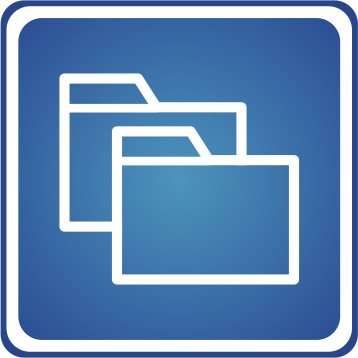
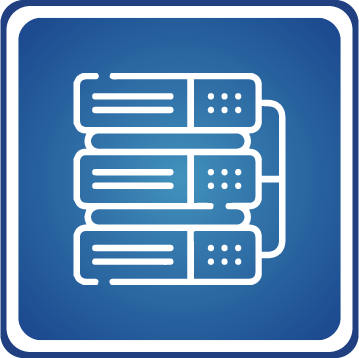
Atualização imagens dos blocos

diff --git a/courses-inicio.html b/courses-inicio.html
@@ -3,7 +3,7 @@
 
 <head>
     <meta charset="UTF-8">
-    <title>CURSOS (Menu) - UNISC</title>
+    <title>Tutoriais Moodle - UNISC</title>
     <link rel="stylesheet" href="reset.css">
     <link rel="stylesheet" href="style-inicio.css">
     <link rel="preconnect" href="https://fonts.googleapis.com">
@@ -17,7 +17,7 @@
             <table class="navegation">
                 <tr>
                     <td class="nav1">
-                        <button onclick="history.back()">Voltar</button>
+                        <button href="courses-inicio.html">Voltar</button>
                     </td>
                     <td class="nav2">
                         <a href="https://portalvirtual.unisc.br/moodle"><img class="bannerunisc" src="img_ead.png"></a>
@@ -34,7 +34,7 @@
             <ul class="recursos">
                 <li>
                     <h2>Arquivo</h2>
-                    <a href="courses-arquivo.html"><img class="atividade" src="img_NOTAS.png"></a>
+                    <a href="courses-arquivo.html"><img class="atividade" src="img_ARQUIVO.png"></a>
                     <!--Imagem Incorreta-->
                 </li>
                 <li>
@@ -43,56 +43,56 @@
                 </li>
                 <li>
                     <h2>Chat</h2>
-                    <a href="courses-chat.html"><img class="atividade" src="img_NOTAS.png"></a>
+                    <a href="courses-chat.html"><img class="atividade" src="img_CHAT.png"></a>
                     <!--Imagem Incorreta-->
                 </li>
                 <li>
                     <h2>Escolha</h2>
-                    <a href="courses-escolha.html"><img class="atividade" src="img_NOTAS.png"></a>
+                    <a href="courses-escolha.html"><img class="atividade" src="img_ESCOLHA.png"></a>
                     <!--Imagem Incorreta-->
                 </li>
                 <li>
                     <h2>Ferramenta Externa</h2>
-                    <a href="courses-ferramentaexterna.html"><img class="atividade" src="img_NOTAS.png"></a>
+                    <a href="courses-ferramentaexterna.html"><img class="atividade" src="img_FERRAMENTA.png"></a>
                     <!--Imagem Incorreta-->
                 </li>
                 <li>
                     <h2>Fórum</h2>
-                    <a href="courses-forum.html"><img class="atividade" src="img_FÓRUM.png"></a>
+                    <a href="courses-forum.html"><img class="atividade" src="img_FORUM.png"></a>
                 </li>
                 <li>
                     <h2>Glossário</h2>
-                    <a href="courses-glossario.html"><img class="atividade" src="img_NOTAS.png"></a>
+                    <a href="courses-glossario.html"><img class="atividade" src="img_GLOSSARIO.png"></a>
                     <!--Imagem Incorreta-->
                 </li>
                 <li>
                     <h2>H5P</h2>
-                    <a href="courses-h5p.html"><img class="atividade" src="img_NOTAS.png"></a>
+                    <a href="courses-h5p.html"><img class="atividade" src="img_H5P.png"></a>
                     <!--Imagem Incorreta-->
                 </li>
                 <li>
                     <h2>Lab. de Avaliação</h2>
-                    <a href="courses-labaval.html"><img class="atividade" src="img_NOTAS.png"></a>
+                    <a href="courses-labaval.html"><img class="atividade" src="img_LABAVAL.png"></a>
                     <!--Imagem Incorreta-->
                 </li>
                 <li>
                     <h2>Lição</h2>
-                    <a href="courses-licao.html"><img class="atividade" src="img_NOTAS.png"></a>
+                    <a href="courses-licao.html"><img class="atividade" src="img_LICAO.png"></a>
                     <!--Imagem Incorreta-->
                 </li>
                 <li>
                     <h2>Livro</h2>
-                    <a href="courses-livro.html"><img class="atividade" src="img_NOTAS.png"></a>
+                    <a href="courses-livro.html"><img class="atividade" src="img_LIVRO.png"></a>
                     <!--Imagem Incorreta-->
                 </li>
                 <li>
                     <h2>Página</h2>
-                    <a href="courses-pagina.html"><img class="atividade" src="img_NOTAS.png"></a>
+                    <a href="courses-pagina.html"><img class="atividade" src="img_PAGINA.png"></a>
                     <!--Imagem Incorreta-->
                 </li>
                 <li>
                     <h2>Pasta</h2>
-                    <a href="courses-pasta.html"><img class="atividade" src="img_NOTAS.png"></a>
+                    <a href="courses-pasta.html"><img class="atividade" src="img_PASTA.png"></a>
                     <!--Imagem Incorreta-->
                 </li>
                 <li>
@@ -106,22 +106,22 @@
                 </li>
                 <li>
                     <h2>Questionário</h2>
-                    <a href="courses-questionario.html"><img class="atividade" src="img_NOTAS.png"></a>
+                    <a href="courses-questionario.html"><img class="atividade" src="img_QUESTIONARIO.png"></a>
                     <!--Imagem Incorreta-->
                 </li>
                 <li>
                     <h2>Rótulo</h2>
-                    <a href="courses-rotulo.html"><img class="atividade" src="img_NOTAS.png"></a>
+                    <a href="courses-rotulo.html"><img class="atividade" src="img_ROTULO.png"></a>
                     <!--Imagem Incorreta-->
                 </li>
                 <li>
                     <h2>Tarefa</h2>
-                    <a href="courses-tarefa.html"><img class="atividade" src="img_NOTAS.png"></a>
+                    <a href="courses-tarefa.html"><img class="atividade" src="img_TAREFA.png"></a>
                     <!--Imagem Incorreta-->
                 </li>
                 <li>
                     <h2>URL</h2>
-                    <a href="courses-url.html"><img class="atividade" src="img_NOTAS.png"></a>
+                    <a href="courses-url.html"><img class="atividade" src="img_URL.png"></a>
                     <!--Imagem Incorreta-->
                 </li>
                 <li>

diff --git a/index.php b/index.php
@@ -3,7 +3,7 @@
 
 <head>
     <meta charset="UTF-8">
-    <title>CURSOS (Menu) - UNISC</title>
+    <title>Tutoriais Moodle - UNISC</title>
     <link rel="stylesheet" href="reset.css">
     <link rel="stylesheet" href="style-inicio.css">
     <link rel="preconnect" href="https://fonts.googleapis.com">
@@ -17,7 +17,7 @@
             <table class="navegation">
                 <tr>
                     <td class="nav1">
-                        <button onclick="history.back()">Voltar</button>
+                        <button href="index.php">Voltar</button>
                     </td>
                     <td class="nav2">
                         <a href="https://portalvirtual.unisc.br/moodle"><img class="bannerunisc" src="img_ead.png"></a>
